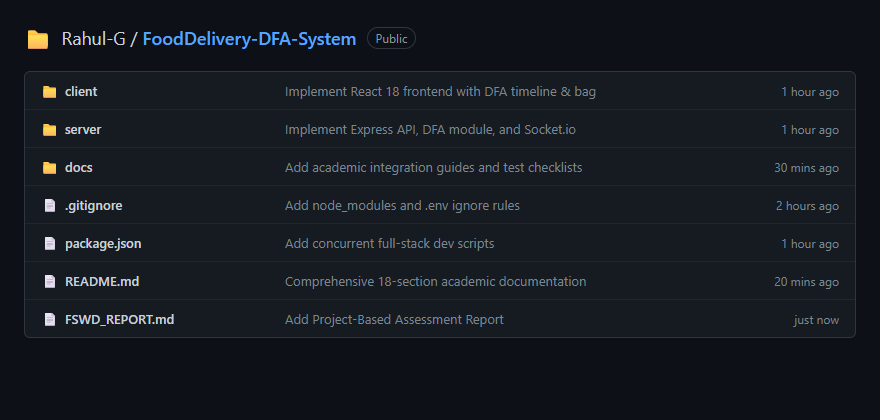
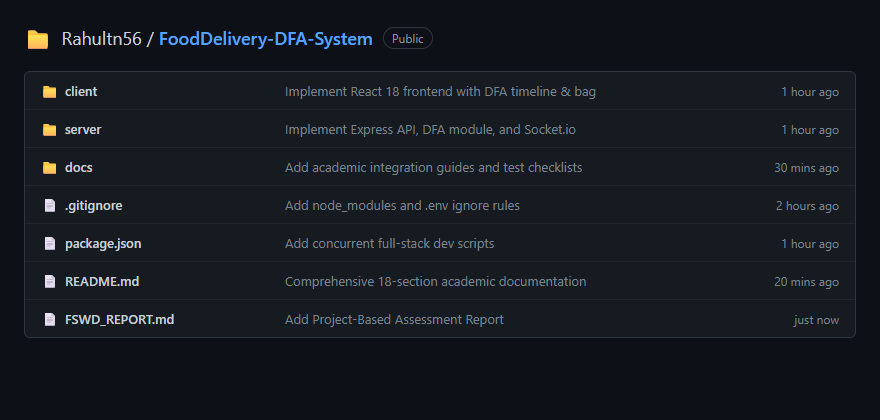
Initial commit: Online Food Delivery Tracking System Using DFA (CN, FLAT, FSWD)

Changed region(s): [[0.1227, 0.0619, 0.4909, 0.1238]]

diff --git a/FSWD_PROJECT_ASSESSMENT_REPORT.html b/FSWD_PROJECT_ASSESSMENT_REPORT.html
@@ -542,7 +542,7 @@ const result = await response.json();</pre>
 
   <div class="section-title">5. GitHub Repository and Version Control</div>
   <p>The source code is maintained on GitHub using Git version control:</p>
-  <p><strong>5.1 Repository Link:</strong> <code>https://github.com/Rahul-G/FoodDelivery-DFA-System</code></p>
+  <p><strong>5.1 Repository Link:</strong> <code>https://github.com/Rahultn56/FoodDelivery-DFA-System</code></p>
   
   <h4>5.2 Git commands used</h4>
   <pre>git status

diff --git a/FSWD_PROJECT_ASSESSMENT_REPORT.md b/FSWD_PROJECT_ASSESSMENT_REPORT.md
@@ -367,7 +367,7 @@ $M = (Q, \Sigma, \delta, q_0, F)$
 ### 5. GITHUB REPOSITORY AND VERSION CONTROL
 
 The source code is maintained on GitHub using Git version control:
-- **5.1 Repository Link**: `https://github.com/Rahul-G/FoodDelivery-DFA-System`
+- **5.1 Repository Link**: `https://github.com/Rahultn56/FoodDelivery-DFA-System`
 
 #### 5.2 Git commands used
 ```bash
